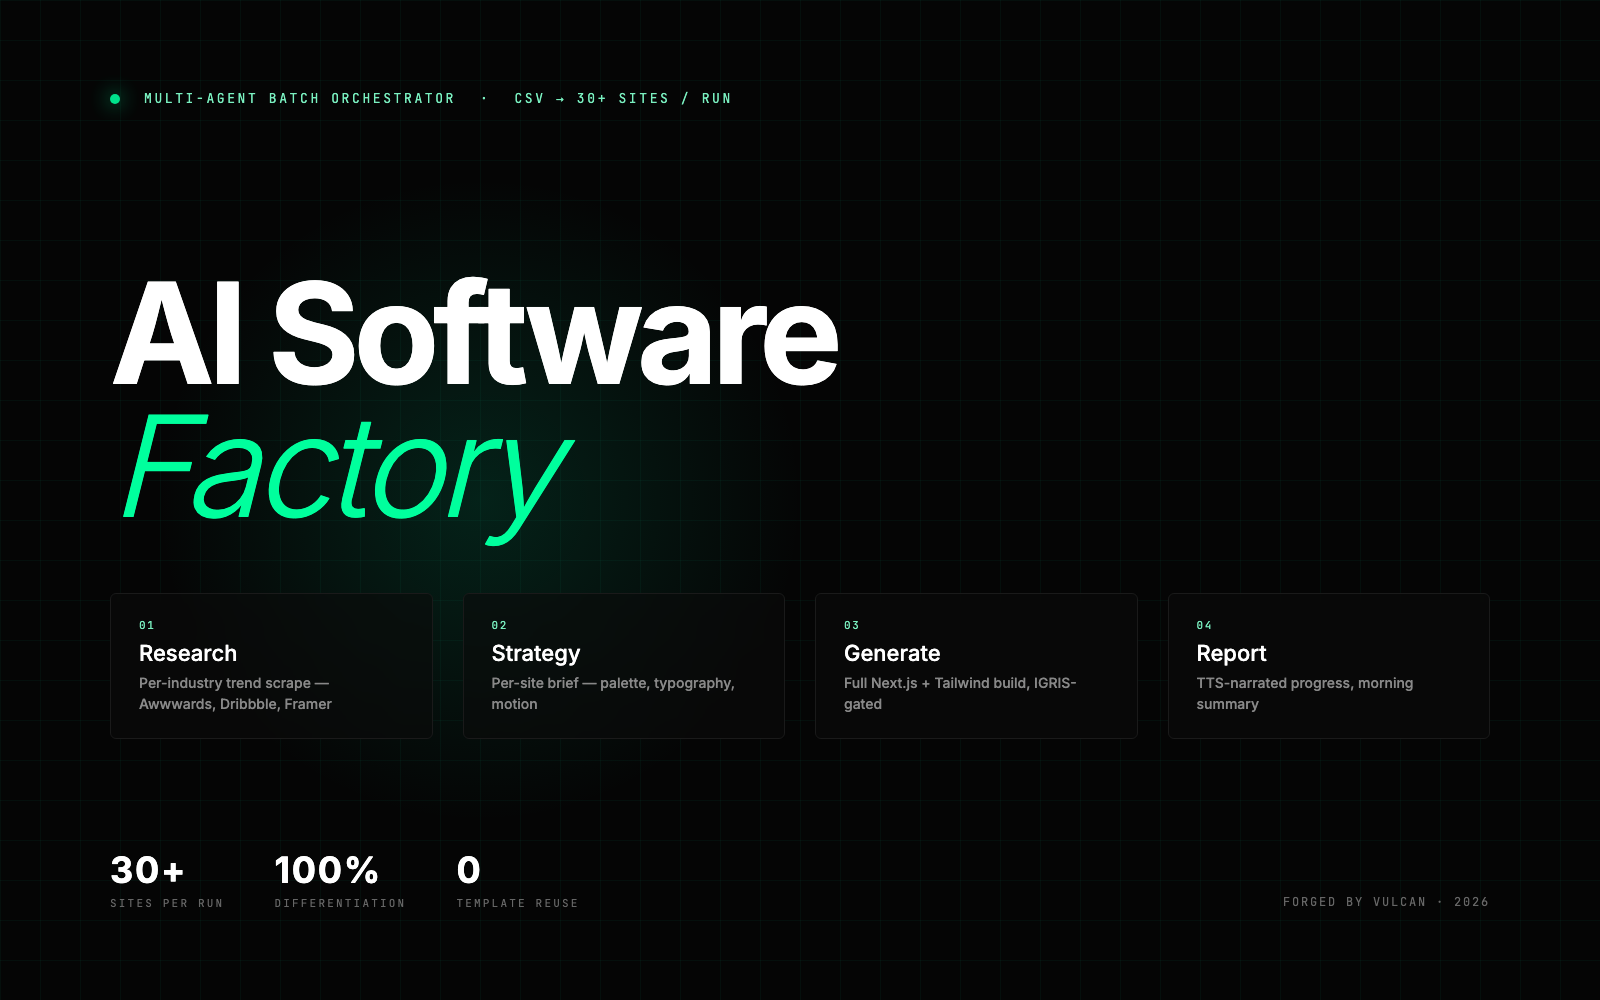
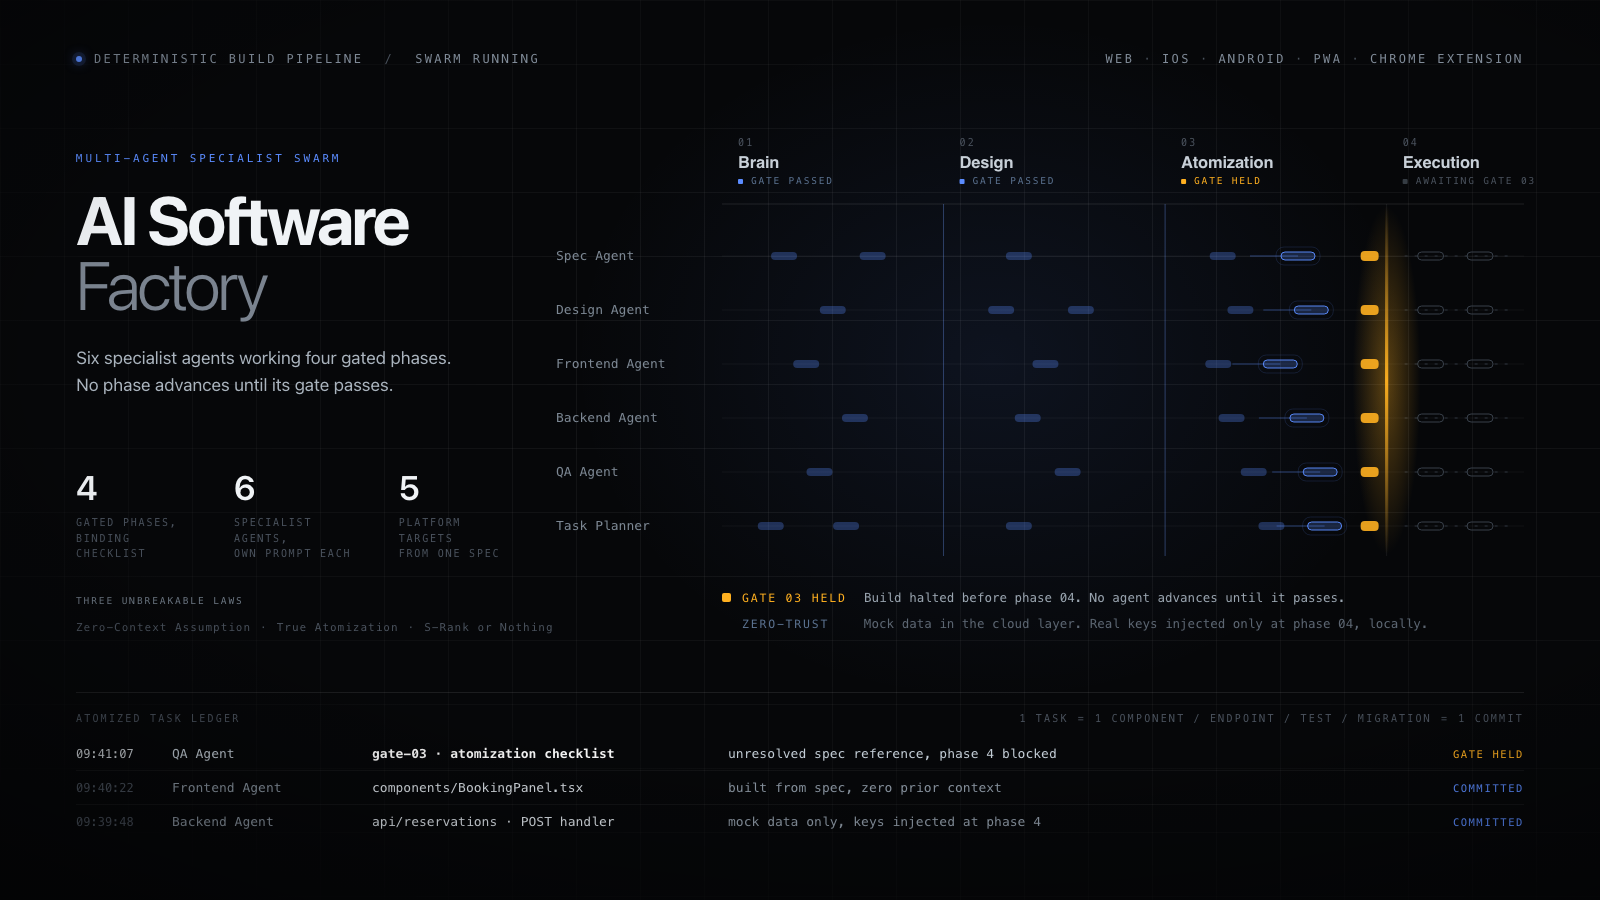
Replace AI Software Factory hero with a depiction of the pipeline under load
Swaps the serif-style title card for a rendered view of the system working:
six specialist agent lanes moving work across the four gated phases, gate 03
visibly holding with the swarm's tasks stacked against it, phase 04 empty
because nothing has been admitted, and an atomized task ledger below.

Source added at scripts/heroes/ai-software-factory.html, rendered with the
existing scripts/heroes/render.mjs. Self-contained, no network at render time.
Drops the previous unsupported 30+/100%/0 stat row.

diff --git a/scripts/heroes/ai-software-factory.html b/scripts/heroes/ai-software-factory.html
@@ -1,0 +1,272 @@
+<meta charset="utf-8">
+<title>AI Software Factory hero</title>
+<!--
+  Source for public/projects/ai-software-factory/hero.png (1600x900).
+  Regenerate:  node scripts/heroes/render.mjs ai-software-factory
+
+  Depicts the Factory's 4-phase gated pipeline with the 6-agent specialist
+  swarm as parallel lanes, work in flight, and one gate visibly holding.
+  All geometry is computed in-file. No network or package dependency.
+  Phase names, agent names, platform targets and the laws come from
+  app/data/projects.ts. Task filenames, timestamps and the specific held
+  gate are ILLUSTRATIVE examples of the system's shape, not captured logs.
+-->
+<style>
+  :root{
+    --bg:#060709;
+    --line:rgba(255,255,255,.055);
+    --ink:#f0f3f6;
+    --dim:#818c99;
+    --dimmer:#4a525d;
+    --flow:#5b8cff;
+    --hold:#ffb020;
+  }
+  *{margin:0;padding:0;box-sizing:border-box}
+  html,body{width:1600px;height:900px;background:var(--bg);overflow:hidden}
+  body{font-family:-apple-system,BlinkMacSystemFont,"Helvetica Neue",Helvetica,Arial,sans-serif;
+    color:var(--ink);-webkit-font-smoothing:antialiased}
+  .mono{font-family:ui-monospace,"SF Mono",Menlo,Monaco,"Courier New",monospace}
+  #stage{position:relative;width:1600px;height:900px;overflow:hidden}
+
+  #grid{position:absolute;inset:0;
+    background-image:linear-gradient(var(--line) 1px,transparent 1px),linear-gradient(90deg,var(--line) 1px,transparent 1px);
+    background-size:64px 64px;
+    -webkit-mask-image:radial-gradient(115% 95% at 64% 42%,#000 20%,transparent 75%)}
+  #glow{position:absolute;left:62%;top:40%;width:1200px;height:980px;transform:translate(-50%,-50%);
+    background:radial-gradient(closest-side,rgba(91,140,255,.09),rgba(91,140,255,0) 70%)}
+  #vig{position:absolute;inset:0;pointer-events:none;
+    background:radial-gradient(125% 105% at 58% 40%,transparent 42%,rgba(0,0,0,.9))}
+
+  .topbar{position:absolute;top:52px;left:76px;right:76px;display:flex;justify-content:space-between;
+    align-items:center;font-size:12px;letter-spacing:.2em;color:var(--dim);text-transform:uppercase}
+  .topbar .l{display:flex;align-items:center;gap:12px}
+  .pulse{width:6px;height:6px;border-radius:50%;background:var(--flow);
+    box-shadow:0 0 0 4px rgba(91,140,255,.13),0 0 12px rgba(91,140,255,.85)}
+  .sep{color:var(--dimmer);margin:0 9px}
+
+  .lede{position:absolute;left:76px;top:152px;width:404px}
+  .eyebrow{font-size:11px;letter-spacing:.26em;color:var(--flow);text-transform:uppercase;margin-bottom:22px}
+  h1{font-size:68px;line-height:.96;letter-spacing:-.04em;font-weight:700}
+  h1 .thin{color:#7a838f;font-weight:300}
+  .sub{margin-top:26px;font-size:17.5px;line-height:1.56;color:#aab4be;max-width:392px}
+
+  .stats{position:absolute;left:76px;top:470px;width:430px;display:flex;gap:44px}
+  .stat .n{font-size:34px;font-weight:600;letter-spacing:-.025em;line-height:1}
+  .stat .n .u{color:#7a838f;font-size:19px;font-weight:400}
+  .stat .k{margin-top:11px;font-size:10px;letter-spacing:.18em;color:var(--dimmer);
+    text-transform:uppercase;line-height:1.55}
+
+  .laws{position:absolute;left:76px;top:592px;font-size:11px;letter-spacing:.09em;color:var(--dimmer);line-height:1.9}
+  .laws .h{color:#6f7a86;letter-spacing:.2em;text-transform:uppercase;font-size:9.5px;margin-bottom:8px}
+
+  #pipe{position:absolute;left:556px;top:126px;width:968px;height:474px}
+  #pipe svg{width:100%;height:100%;overflow:visible}
+
+  .callout{position:absolute;font-size:12px;letter-spacing:.02em;color:var(--ink)}
+  .callout .t{color:var(--hold);letter-spacing:.2em;font-size:9.5px;text-transform:uppercase;margin-bottom:7px}
+  .callout .b{color:var(--dim);margin-top:4px;font-size:11.5px}
+
+  #feed{position:absolute;left:76px;right:76px;bottom:62px;border-top:1px solid rgba(255,255,255,.09);padding-top:20px}
+  .fhead{display:flex;justify-content:space-between;font-size:10px;letter-spacing:.22em;
+    color:var(--dimmer);text-transform:uppercase;margin-bottom:13px}
+  .row{display:grid;grid-template-columns:96px 200px 356px 1fr 132px;align-items:center;
+    font-size:13px;padding:9px 0;border-bottom:1px solid rgba(255,255,255,.05);color:#98a3ae}
+  .row:last-child{border-bottom:0}
+  .row .ts{color:var(--dimmer);font-size:12px}
+  .row .task{color:#dde3e9}
+  .row .who{color:#8b96a2}
+  .row .st{justify-self:end;font-size:10.5px;letter-spacing:.15em;text-transform:uppercase}
+  .row.hot .ts{color:#cdd2d7}
+  .row.hot .task{color:#fff;font-weight:600}
+  .row.hot .who{color:#c2ccd5}
+  .st.ok{color:var(--flow)}
+  .st.wait{color:var(--dimmer)}
+  .st.held{color:var(--hold)}
+</style>
+
+<div id="stage">
+  <div id="grid"></div>
+  <div id="glow"></div>
+
+  <div class="topbar mono">
+    <div class="l"><span class="pulse"></span><span>Deterministic build pipeline</span><span class="sep">/</span><span>swarm running</span></div>
+    <div>Web<span class="sep">·</span>iOS<span class="sep">·</span>Android<span class="sep">·</span>PWA<span class="sep">·</span>Chrome Extension</div>
+  </div>
+
+  <div class="lede">
+    <div class="eyebrow mono">Multi-agent specialist swarm</div>
+    <h1>AI Software<br><span class="thin">Factory</span></h1>
+    <div class="sub">Six specialist agents working four gated phases. No phase advances until its gate passes.</div>
+  </div>
+
+  <div class="stats">
+    <div class="stat">
+      <div class="n">4</div>
+      <div class="k mono">Gated phases,<br>binding checklist</div>
+    </div>
+    <div class="stat">
+      <div class="n">6</div>
+      <div class="k mono">Specialist agents,<br>own prompt each</div>
+    </div>
+    <div class="stat">
+      <div class="n">5</div>
+      <div class="k mono">Platform targets<br>from one spec</div>
+    </div>
+  </div>
+
+  <div class="laws mono">
+    <div class="h">Three unbreakable laws</div>
+    <div>Zero-Context Assumption<span class="sep">·</span>True Atomization<span class="sep">·</span>S-Rank or Nothing</div>
+  </div>
+
+  <div id="pipe"><svg id="svg" viewBox="0 0 968 474"></svg></div>
+
+  <div id="feed">
+    <div class="fhead mono">
+      <span>Atomized task ledger</span>
+      <span>1 task<span class="sep">=</span>1 component / endpoint / test / migration<span class="sep">=</span>1 commit</span>
+    </div>
+    <div class="row mono hot">
+      <span class="ts">09:41:07</span>
+      <span class="who">QA Agent</span>
+      <span class="task">gate-03 · atomization checklist</span>
+      <span class="who">unresolved spec reference, phase 4 blocked</span>
+      <span class="st held">Gate held</span>
+    </div>
+    <div class="row mono">
+      <span class="ts">09:40:22</span>
+      <span class="who">Frontend Agent</span>
+      <span class="task">components/BookingPanel.tsx</span>
+      <span class="who">built from spec, zero prior context</span>
+      <span class="st ok">Committed</span>
+    </div>
+    <div class="row mono">
+      <span class="ts">09:39:48</span>
+      <span class="who">Backend Agent</span>
+      <span class="task">api/reservations · POST handler</span>
+      <span class="who">mock data only, keys injected at phase 4</span>
+      <span class="st ok">Committed</span>
+    </div>
+  </div>
+
+  <div id="vig"></div>
+</div>
+
+<script>
+const W=968;
+const svg=document.getElementById('svg');
+const ns="http://www.w3.org/2000/svg";
+function el(t,a){const e=document.createElementNS(ns,t);for(const k in a)e.setAttribute(k,a[k]);return e;}
+function add(e){svg.appendChild(e);return e;}
+const MONO='ui-monospace,Menlo,monospace';
+function txt(x,y,s,o){const t=add(el('text',Object.assign({x:x,y:y,'font-family':MONO},o)));t.textContent=s;return t;}
+
+const defs=el('defs');
+defs.innerHTML=`
+<radialGradient id="hg"><stop offset="0" stop-color="#ffb020" stop-opacity=".34"/><stop offset="1" stop-color="#ffb020" stop-opacity="0"/></radialGradient>
+<linearGradient id="gateg" x1="0" y1="0" x2="0" y2="1">
+  <stop offset="0" stop-color="#ffb020" stop-opacity="0"/><stop offset=".5" stop-color="#ffb020" stop-opacity=".95"/><stop offset="1" stop-color="#ffb020" stop-opacity="0"/></linearGradient>`;
+add(defs);
+
+/* ---- geometry ---------------------------------------------------------- */
+const LBL=152;                       // agent-label gutter
+const TRK0=LBL+14, TRKW=W-TRK0;
+const WGT=[1,1,1,.62];               // phase 04 narrow: nothing has been admitted
+const SUM=WGT.reduce((a,b)=>a+b,0);
+const CW=WGT.map(w=>TRKW*w/SUM);
+const EDGE=[TRK0];CW.forEach(w=>EDGE.push(EDGE[EDGE.length-1]+w));
+const colX=i=>EDGE[i], colW=i=>CW[i];
+
+const HEAD=40, RULE=HEAD+38;
+const LY0=RULE+52, LSTEP=54;
+const laneY=i=>LY0+i*LSTEP;
+const AGENTS=["Spec Agent","Design Agent","Frontend Agent","Backend Agent","QA Agent","Task Planner"];
+const LANE_BOT=laneY(5)+30;
+const PHASES=[
+  ["01","Brain","GATE PASSED","ok"],
+  ["02","Design","GATE PASSED","ok"],
+  ["03","Atomization","GATE HELD","hold"],
+  ["04","Execution","AWAITING GATE 03","off"]
+];
+const HELD=3, GX=colX(HELD);
+const C={ok:'#5b8cff',hold:'#ffb020',off:'#4a525d'};
+
+/* ---- phase headers ----------------------------------------------------- */
+PHASES.forEach((p,i)=>{
+  const x=colX(i)+16;
+  txt(x,HEAD-20,p[0],{fill:'#4a525d','font-size':10,'letter-spacing':2.2});
+  const n=add(el('text',{x:x,y:HEAD+2,fill:'#c8d0d8','font-size':16.5,'letter-spacing':-.2,
+    'font-family':'-apple-system,Helvetica,Arial,sans-serif','font-weight':600}));
+  n.textContent=p[1];
+  add(el('rect',{x:x,y:HEAD+13,width:5,height:5,rx:1,fill:C[p[3]],
+    'fill-opacity':p[3]==='off'?.7:1}));
+  txt(x+13,HEAD+18,p[2],{fill:p[3]==='hold'?'#ffb020':(p[3]==='ok'?'#5b7290':'#4a525d'),
+    'font-size':9.5,'letter-spacing':1.8});
+});
+add(el('line',{x1:TRK0,y1:RULE,x2:W,y2:RULE,stroke:'rgba(255,255,255,.10)','stroke-width':1}));
+for(let i=1;i<4;i++)
+  add(el('line',{x1:colX(i),y1:RULE,x2:colX(i),y2:LANE_BOT,stroke:'rgba(255,255,255,.07)','stroke-width':1}));
+
+/* ---- lanes ------------------------------------------------------------- */
+AGENTS.forEach((a,i)=>{
+  const y=laneY(i);
+  txt(0,y+4,a,{fill:'#7d8894','font-size':13});
+  add(el('line',{x1:TRK0,y1:y,x2:W,y2:y,stroke:'rgba(255,255,255,.05)','stroke-width':1}));
+});
+
+/* ---- work in flight ----------------------------------------------------
+   Lane contents are ILLUSTRATIVE: they show the shape of a run in progress,
+   not a captured log. state 2 = committed, 1 = in flight.                 */
+const CHIPS=[
+  [0,0,.28,2],[0,0,.68,2],[0,1,.34,2],[0,2,.26,2],[0,2,.60,1],
+  [1,0,.50,2],[1,1,.26,2],[1,1,.62,2],[1,2,.34,2],[1,2,.66,1],
+  [2,0,.38,2],[2,1,.46,2],[2,2,.24,2],[2,2,.52,1],
+  [3,0,.60,2],[3,1,.38,2],[3,2,.30,2],[3,2,.64,1],
+  [4,0,.44,2],[4,1,.56,2],[4,2,.40,2],[4,2,.70,1],
+  [5,0,.22,2],[5,0,.56,2],[5,1,.34,2],[5,2,.48,2],[5,2,.72,1]
+];
+CHIPS.forEach(([a,p,f,st])=>{
+  const y=laneY(a), x=colX(p)+colW(p)*f, w=st===2?26:34, h=8;
+  if(st===1){
+    add(el('line',{x1:x-48,y1:y,x2:x,y2:y,stroke:'#5b8cff','stroke-width':1.4,'stroke-opacity':.28}));
+    add(el('rect',{x:x-w/2,y:y-h/2,width:w,height:h,rx:4,fill:'#5b8cff','fill-opacity':.22,
+      stroke:'#5b8cff','stroke-width':1,'stroke-opacity':.95}));
+    add(el('rect',{x:x-w/2-5,y:y-h/2-5,width:w+10,height:h+10,rx:8,fill:'none',
+      stroke:'#5b8cff','stroke-width':1,'stroke-opacity':.15}));
+  }else{
+    add(el('rect',{x:x-w/2,y:y-h/2,width:w,height:h,rx:4,fill:'#5b8cff','fill-opacity':.30}));
+  }
+});
+
+/* ---- phase 04 stays empty while the gate holds -------------------------- */
+AGENTS.forEach((a,i)=>{
+  const y=laneY(i);
+  add(el('line',{x1:GX+18,y1:y,x2:W-16,y2:y,stroke:'#2e353e','stroke-width':1,'stroke-dasharray':'3 7'}));
+  [.32,.68].forEach(f=>{
+    const x=colX(3)+colW(3)*f;
+    add(el('rect',{x:x-13,y:y-4,width:26,height:8,rx:4,fill:'none',stroke:'#39414b','stroke-width':1}));
+  });
+});
+
+/* ---- passed gates ------------------------------------------------------- */
+[1,2].forEach(i=>add(el('line',{x1:colX(i),y1:RULE,x2:colX(i),y2:LANE_BOT,
+  stroke:'#5b8cff','stroke-width':1,'stroke-opacity':.30})));
+
+/* ---- the held gate, with the swarm's work stacked against it ------------ */
+add(el('rect',{x:GX-34,y:RULE+2,width:68,height:LANE_BOT-RULE-4,fill:'url(#hg)'}));
+add(el('rect',{x:GX-1.6,y:RULE+2,width:3.2,height:LANE_BOT-RULE-4,fill:'url(#gateg)'}));
+AGENTS.forEach((a,i)=>add(el('rect',{x:GX-26,y:laneY(i)-5,width:18,height:10,rx:4,
+  fill:'#ffb020','fill-opacity':.9})));
+
+/* ---- band below the lanes ---------------------------------------------- */
+const B1=LANE_BOT+46, B2=B1+26;
+add(el('rect',{x:TRK0,y:B1-9,width:9,height:9,rx:2,fill:'#ffb020'}));
+txt(TRK0+20,B1,'GATE 03 HELD',{fill:'#ffb020','font-size':11.5,'letter-spacing':1.8});
+txt(TRK0+142,B1,'Build halted before phase 04. No agent advances until it passes.',
+  {fill:'#9aa5b0','font-size':12.5});
+txt(TRK0+20,B2,'ZERO-TRUST',{fill:'#5b7290','font-size':11.5,'letter-spacing':1.8});
+txt(TRK0+142,B2,'Mock data in the cloud layer. Real keys injected only at phase 04, locally.',
+  {fill:'#5c6672','font-size':12.5});
+
+document.body.setAttribute('data-ready','1');
+</script>
